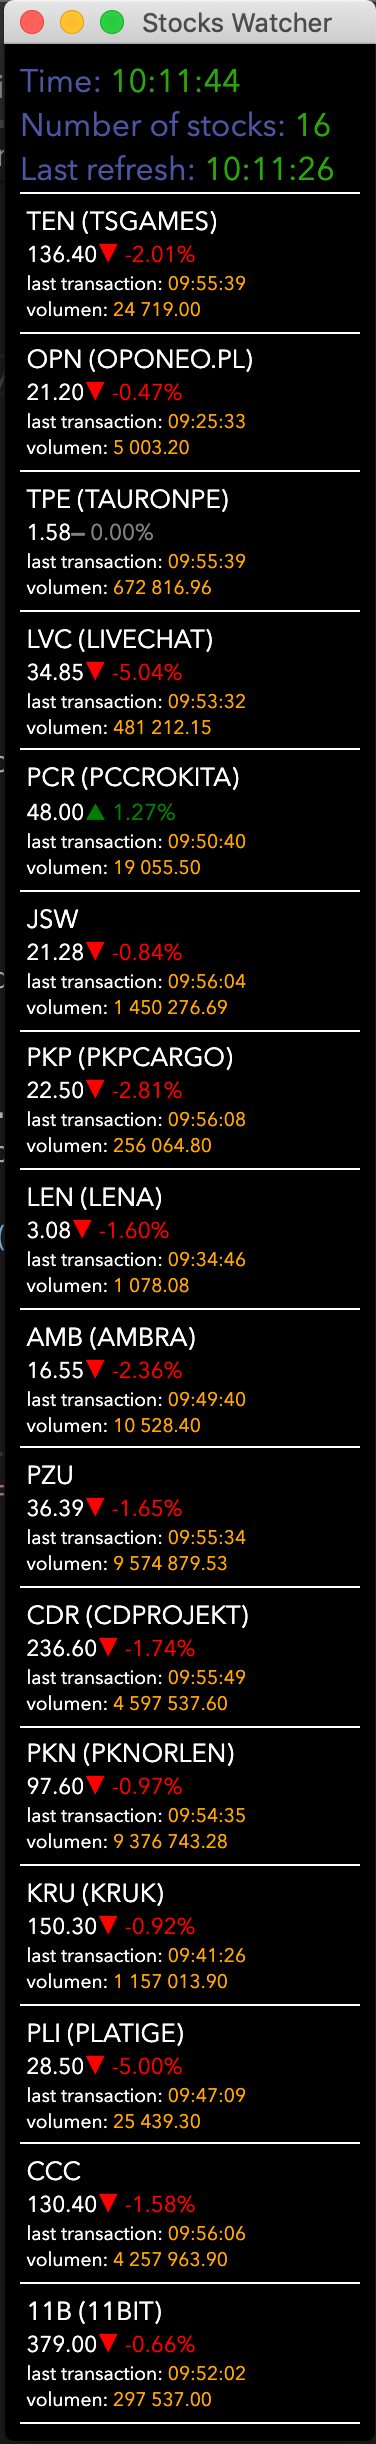
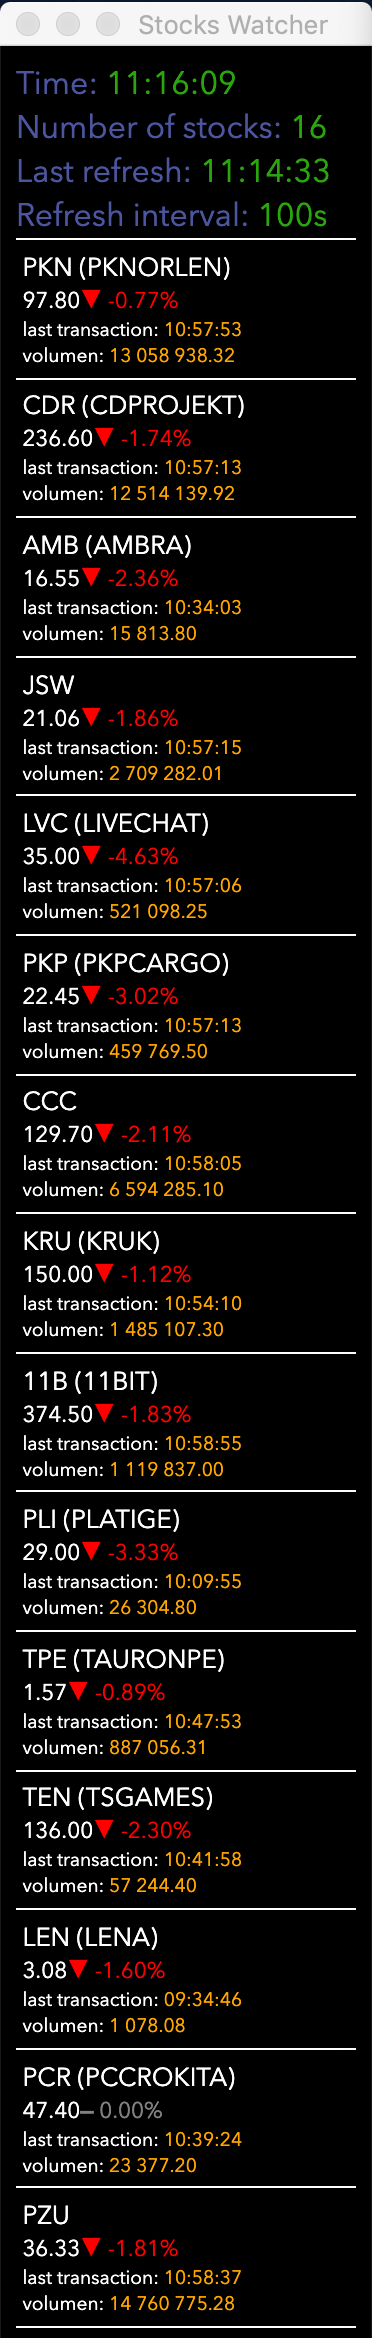
Add sorting and notification features

Changed region(s): [[0.0, 0.0, 1.0, 0.9991], [0.9758, 0.9991, 1.0, 1.0], [0.0, 0.9991, 0.0296, 1.0]]

diff --git a/stocks.js b/stocks.js
@@ -42,34 +42,46 @@ function getMeta(company) {
     });
 }
 
-function update() {
-    conf.stocks.forEach(elem => getMeta(elem).then(renderMeta));
+async function update() {
+    const nodes = await Promise.all(conf.stocks.map(elem => getMeta(elem).then(createHtml)));
+    render(nodes.sort(compareNode));
+
     conf.lastCheck = moment().unix();
+    if (conf.notifications) {
+        let length = conf.stocks.length;
+        let time = moment.unix(conf.lastCheck).format('HH:mm:ss');
+        new Notification("Stocks Watcher Updated", {
+            title: "Stocks Watcher Updated",
+            body: `${length} Stocks Has Been Updated at ${time}`,
+            silent: true
+        });
+    }
 }
 
-function renderMeta(company) {
-    let node = document.getElementById(company.id)
-    let newStock = false;
-    if (node) {
-        while (node.hasChildNodes()) {
-            node.removeChild(node.firstChild);
-         }
-    } else {
-        newStock = true;
-        node = document.createElement("div");
+function render(stocks) {
+    let node = document.getElementById("stocks");
+    while (node.hasChildNodes()) {
+        node.removeChild(node.firstChild);
+    }
+    stocks.forEach((s) => node.appendChild(s.node));
+}
+
+function createHtml(company) {
+    return new Promise((resolve, reject) => {
+        let node = document.createElement("div");
         node.className = "stock";
         node.id = company.id;    
-    }
-    
-    node.appendChild(renderHeader(company));
-    node.appendChild(renderPrice(company));
-    node.appendChild(renderLastTransaction(company));
-    node.appendChild(renderVolumen(company));
+        
+        node.appendChild(renderHeader(company));
+        node.appendChild(renderPrice(company));
+        node.appendChild(renderLastTransaction(company));
+        let volNode = renderVolumen(company);
+        if (volNode) {
+            node.appendChild(renderVolumen(company));
+        }
 
-    if (newStock) {
-        let elems = document.getElementsByClassName("stocks");
-        elems[0].appendChild(node);
-    }
+        resolve({company: company, node: node});
+    });
 }
 
 function renderHeader(company) {
@@ -151,7 +163,11 @@ function renderLastTransaction(company) {
 }
 
 function renderVolumen(company) {
-    vol = company.meta.mc
+    let vol = company.meta.mc
+    let volFmt = currencyFormat(vol);
+    if (volFmt === "") {
+        return null;
+    }
 
     let node = document.createElement("div");
     node.className = "volumen";
@@ -159,7 +175,7 @@ function renderVolumen(company) {
     label.innerHTML = "volumen: ";
     label.className = "key";
     let value = document.createElement("span");
-    value.innerHTML = currencyFormat(vol);
+    value.innerHTML = volFmt;
     value.className = "value";
 
     node.appendChild(label);
@@ -169,8 +185,22 @@ function renderVolumen(company) {
 }
 
 function currencyFormat(num) {
-    return num.toFixed(2).toString().replace(/\B(?=(\d{3})+(?!\d))/g, " ");
+    if (num) {
+        return num.toFixed(2).toString().replace(/\B(?=(\d{3})+(?!\d))/g, " ");
+    } 
+    return "";
 }
+
+function compareNode(a, b) {
+    if (a.company.index && !b.company.index)
+        return -1;
+    if (a.company.index && b.company.index)
+        return a.company.name.localeCompare(b.company.name);
+    if (b.company.index && !a.company.index)
+        return 1;
+
+    return a.company.name.localeCompare(b.company.name);
+ }
 
 function start() {
     let home = process.env.HOME;

diff --git a/index.html b/index.html
@@ -23,7 +23,7 @@
         <span class="value" id="refresh_interval"></span>
       </div>
     </div>
-    <div class="stocks"></div>
+    <div class="stocks" id="stocks"></div>
     <script src="./stocks.js"></script>
   </body>
 </html>

diff --git a/README.md b/README.md
@@ -2,7 +2,7 @@
 
 Simple electron App to watch constantly of current price of Stocks on [GPW](https://www.gpw.pl/).
 
-Sample view: 
+Sample view:
 
 <p align="center">
   <img src="stocks_watcher.png" width="100">
@@ -13,6 +13,9 @@ Sample view:
 * Data is taken from [https://www.biznesradar.pl](https://www.biznesradar.pl)
 * Refresh is done each 100s, but it's configurable via `~/.stocks.json` file. see: [configuration](#configure-gpw-stocks-watcher)
 * Stocks shown in App might be changed via `~/.stocks.json` file. see: [configuration](#configure-gpw-stocks-watcher)
+* Every Stock is clickable - after clicking into Stock name new tab in your default browser will be open.
+* After every Refresh notification can be shown - this might be changed via `~/.stocks.json` file. see: [configuration](#configure-gpw-stocks-watcher)
+* Stocks are sorted by rule - indexes first, regular stocks after - with alphanumeric sorting.
 
 ## Run GPW Stocks Watcher
 
@@ -53,13 +56,15 @@ npm run build-linux
 There are 2 things which might be configurable in GPW Stocks Watcher:
 
 * `refreshInterval` - value describes how often `Stocks Watcher` will fetch data from server.
-* `stocks` - array of stock elements where each of them describes Stock which will be fetched and shown in application. ID value is taken from file `api.json` to set proper ID you need to open file `api.json` find proper Stock in which you are interested and copy field: `oid` as `id` in stocks.json.
+* `stocks` - array of stock elements where each of them describes Stock which will be fetched and shown in application. ID value is taken from file `api.json` to set proper ID you need to open file `api.json` find proper Stock in which you are interested and copy field: `oid` as `id` in stocks.json. If you would like to show index as well as stocks - you need to add new field: `"index": true` to stock description.
+* `notifications` - flag value whether notification after every refresh will be shown.
 
 Example file with configuration:
 
 ```bash
 {
   "refreshInterval": 100,
+  "notifications": true,
   "stocks": [
     {
       "name": "Livechat",
@@ -70,6 +75,13 @@ Example file with configuration:
     {
       "name": "Ambra",
       "id": "221",
+      "lastPrice": 0.0,
+      "meta": {}
+    },
+    {
+      "name": "WIG20",
+      "id": "792",
+      "index": true,
       "lastPrice": 0.0,
       "meta": {}
     }
